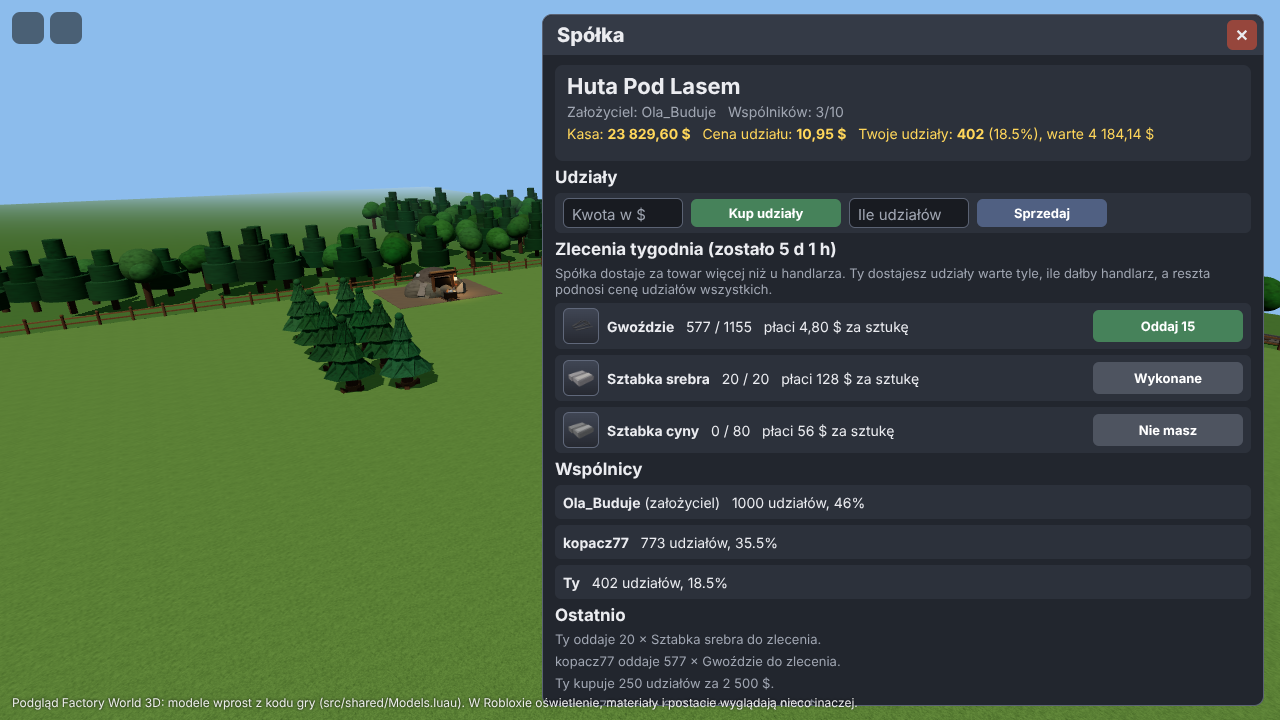
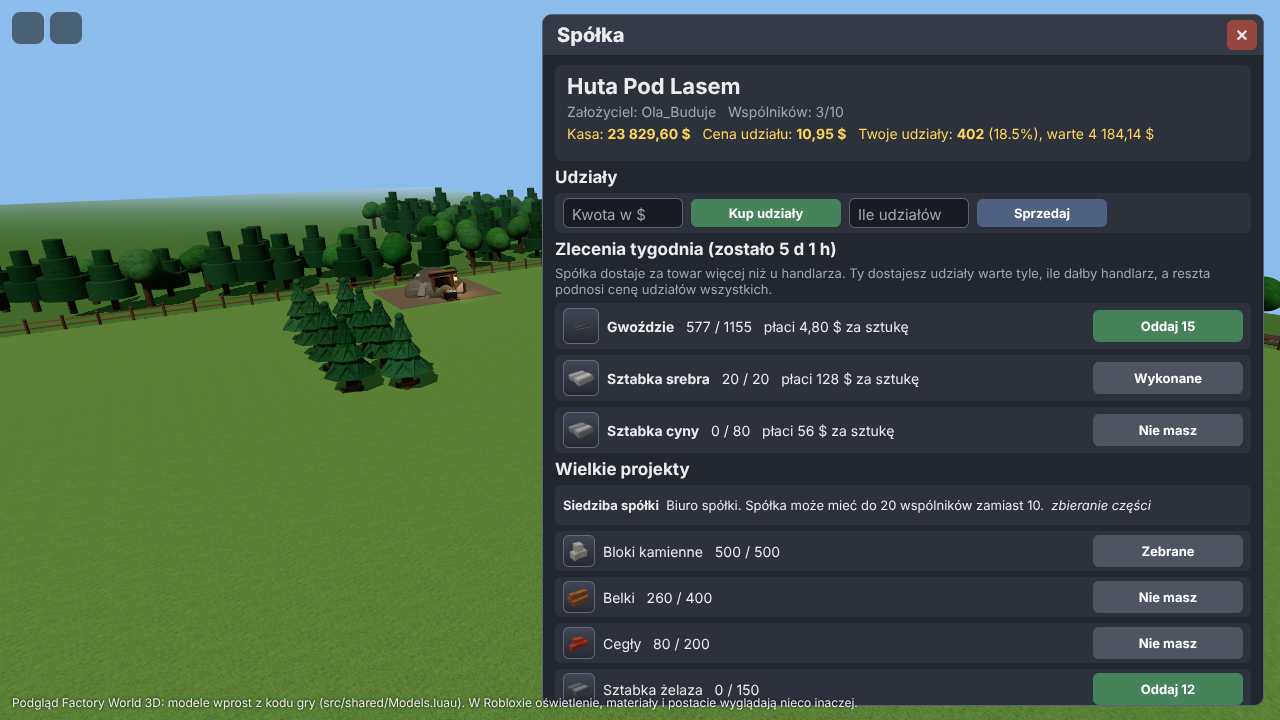
Companies: big projects (headquarters, warehouse, company railway) built from members' parts
The cheaper trains between members now come with the company railway, as in the 2D game.

Claude-Session: https://claude.ai/code/session_015q7rLHNJ66CFDjTGWXE1aJ

Changed region(s): [[0.4375, 0.6417, 0.75, 0.9778], [0.8438, 0.7333, 0.9688, 0.9778], [0.7812, 0.6722, 0.8125, 0.7333]]

diff --git a/tools/preview/scene.js b/tools/preview/scene.js
@@ -643,8 +643,14 @@ function views() {
       local o = Companies.Orders("huta", Companies.Week(now))
       c = step(c, { kind = "deliver", member = "2", order = 1, quantity = math.floor(o[1].quantity / 2) })
       c = step(c, { kind = "deliver", member = "3", order = 2, quantity = o[2].quantity })
+      c = step(c, { kind = "project", member = "1", project = "hq" })
+      c = step(c, { kind = "contribute", member = "2", item = Items.StoneBlocks, quantity = 500 })
+      c = step(c, { kind = "contribute", member = "3", item = Items.Beams, quantity = 260 })
+      c = step(c, { kind = "contribute", member = "1", item = Items.Bricks, quantity = 80 })
+      local hq = {}
+      for i, part in ipairs(Companies.Project("hq").parts) do hq[i] = { item = part[1], quantity = part[2], delivered = c.project.delivered[part[1]] or 0 } end
       local orders = {}
-      for i, x in ipairs(o) do orders[i] = { item = x.item, quantity = x.quantity, left = Companies.Left(c, i, now), rewardCents = x.rewardCents } end
+      for i, x in ipairs(o) do if i <= Companies.OrderCount(c, now) then orders[i] = { item = x.item, quantity = x.quantity, left = Companies.Left(c, i, now), rewardCents = x.rewardCents } end end
       local members = {}
       for id, m in pairs(c.members) do members[#members + 1] = { name = m.name, shares = m.shares, owner = id == c.owner } end
       table.sort(members, function(a, b) return a.shares > b.shares end)
@@ -652,7 +658,7 @@ function views() {
       for i = #c.log, 1, -1 do log[#log + 1] = c.log[i].text end
       local mine, value = Companies.Stake(c, "3")
       return { name = c.name, cash = Money.Format(c.cashCents), price = Money.Format(Companies.SharePrice(c)), shares = c.shares, mine = mine, value = Money.Format(value),
-        orders = orders, members = members, log = log, weekLeft = (Companies.Week(now) + 1) * Companies.WeekSeconds - now }
+        orders = orders, members = members, log = log, hq = hq, hqText = Companies.Project("hq").text, weekLeft = (Companies.Week(now) + 1) * Companies.WeekSeconds - now }
     end)()`);
     const pct = (n) => Math.round(n / c.shares * 1000) / 10;
     const days = Math.floor(c.weekLeft / 86400), hours = Math.floor((c.weekLeft % 86400) / 3600);
@@ -672,10 +678,12 @@ function views() {
         <b style="font-size:17px">Zlecenia tygodnia (zostało ${days} d ${hours} h)</b>
         <div class="muted" style="font-size:13px">Spółka dostaje za towar więcej niż u handlarza. Ty dostajesz udziały warte tyle, ile dałby handlarz, a reszta podnosi cenę udziałów wszystkich.</div>
         ${c.orders.map(order).join("")}
+        <b style="font-size:17px">Wielkie projekty</b>
+        <div class="row" style="height:40px;font-size:13px"><span><b>Siedziba spółki</b> &nbsp;${c.hqText} &nbsp;<i>zbieranie części</i></span></div>
+        ${c.hq.map((p) => { const left = p.quantity - p.delivered; const give = Math.min(have[p.item] || 0, left);
+          return `<div class="row" style="height:40px">${slot(p.item, "", { size: 32 })}<span style="flex:1;font-size:14px">${name(p.item)} &nbsp; ${p.delivered} / ${p.quantity}</span><span class="btn" style="width:150px;text-align:center;padding:8px 0;${left > 0 && give > 0 ? "" : "background:#4e5460"}">${left <= 0 ? "Zebrane" : give > 0 ? "Oddaj " + give : "Nie masz"}</span></div>`; }).join("")}
         <b style="font-size:17px">Wspólnicy</b>
         ${c.members.map((m) => `<div class="row" style="height:34px;font-size:14px"><span><b>${m.name}</b>${m.owner ? " (założyciel)" : ""} &nbsp; ${m.shares} udziałów, ${pct(m.shares)}%</span></div>`).join("")}
-        <b style="font-size:17px">Ostatnio</b>
-        ${c.log.slice(0, 4).map((t) => `<div class="muted" style="font-size:13px">${t}</div>`).join("")}
       </div></div>` };
   }
   // The windows' item pictures: every item's parts, drawn by index.html.

diff --git a/README.md b/README.md
@@ -29,7 +29,7 @@ Zrzuty pochodzą z podglądu w przeglądarce (`tools/preview/`), który rysuje d
 | 2. Logistyka | Działka 232 × 232 study z siatką budowania na całości (56 × 56 pól po 4 study; wszystko na działce stoi na jej polach), tryb budowania (stawianie, obracanie, rozbiórka, linie siatki widoczne tylko przy budowaniu), taśmociągi (2 pasy, zakręty, dołączanie z boku, przeciąganie skręca taśmę), podajniki, drewniane skrzynie (8 miejsc po 100 szt.), piec na siatce karmiony podajnikami, drzewa jak w 2D (ścięte znika, 30% na sadzonkę, sadzonka rośnie 10 min), nowe przepisy na stole (taśmociąg ×4, podajnik, skrzynia), gęsty las między działkami i wokół placu (tylko ozdoba, nie da się go ściąć ani w nim budować; ścieżki do bram wolne) | gotowe |
 | 3. Przetwórstwo | Maszyny na siatce (2 × 2 pola, odlewnia 3 × 3) z przepisami i czasami z gry 2D: tartak (deski, belki, pellet), warsztat kamieniarski (bloki), kruszarka (piasek, kruszywo rud: 3 z 2 rud, w piecu topi się szybciej), odlewnia na węgiel, drewno albo pellet (brąz, stal, cegły); maszyna robi wsad za wsadem także pod nieobecność gracza, podajniki ją karmią i opróżniają. Badania (jedno naraz, koszt od razu, czas jak w 2D): Gospodarka leśna, Kamieniarstwo, Kruszenie, Metalurgia odblokowują maszyny na stole i u handlarza. Od etapu 5 kruszarka potrzebuje prądu | gotowe |
 | 4. Handel | Rynek graczy na wszystkich serwerach (**M**): oferty sprzedaży i zamówienia jak w 2D (towar albo pieniądze czekają w ofercie, inni biorą część albo całość, zarobek przychodzi sam także pod nieobecność; do 20 ofert każdego rodzaju, do 10 000 szt. i 1 000 000 $ za sztukę, rzeczy niezbadane można tylko sprzedawać). Wydarzenia rynkowe u handlarza co 6 godzin (Boom na stal, Boom budowlany, Sroga zima, Gorączka miedzi, Moda na brąz, Gorączka złota, Zalew kamienia, Wyprzedaż maszyn), takie same na każdym serwerze, oraz codzienne wahania cen skupu do 10%; handlarz zawsze płaci najwyżej 90% swojej ceny sprzedaży | gotowe |
-| 5. Świat | **Prąd (gotowe):** generator parowy 2 × 2 (100 kW, węgiel 200 s, drewno 50 s, pellet 40 s przy pełnej mocy, do 50 sztuk; paliwo wkłada się w jego oknie albo podajnikiem), słupy energetyczne (zasilają pola 5 × 5 wokół siebie, łączą się kablem ze słupami do 7 pól dalej w jedną sieć), kruszarka pobiera 40 kW; przy za małej mocy wszystkie maszyny sieci pracują wolniej, bez prądu stoją i pamiętają postęp wsadu. Generator (stół: 10 kamieni, 8 sztabek żelaza, 4 sztabki miedzi) i słupy (×2: 2 drewna, 1 sztabka miedzi). Liczone na żądanie także pod nieobecność gracza. **Pociągi (gotowe):** każda działka ma stację kolejową (3 × 3 pola przy wschodnim płocie, nie da się jej rozebrać) z peronem i torem za płotem, który z obu stron znika w tunelu. Towar ładuje się na stację ręcznie albo podajnikami (do 10 000 szt. jednego towaru), podajniki też ją rozładowują. Wysyłka do innego gracza (szukanie po nazwie, na dowolnym serwerze): opłata 1 $ + 1 ¢ za sztukę na 100 km, czas 5 s na 100 km (najmniej 10 s), jak w 2D; towar czeka na stacji odbiorcy, także gdy go nie ma w grze. Trasy (do 5): pociąg co 1, 5, 15 albo 60 minut z wybranymi towarami albo wszystkim (do 2000 szt.), póki właściciel jest w grze. Pociąg widać, jak przyjeżdża z tunelu, staje przy peronie i odjeżdża. **Stół warsztatowy** jako przedmiot (u handlarza albo z 20 drewna i 5 gwoździ) do postawienia na działce. **Działki z biomami (gotowe, L):** poza pierwszą działką (Łąka) można kupić po jednej działce Las (60 drzew, kopalnia z dużą ilością węgla), Pustynia (bez drzew; piasek, miedź, cyna, czasem złoto), Góry (8 drzew; żelazo, srebro, węgiel) i Tundra (16 ośnieżonych świerków; cyna, srebro, złoto). Biom wybiera się przy zakupie, a działki kosztują 50 000 $, 500 000 $, 5 000 000 $ i każda następna 1 000 000 000 $. Na serwerze gracz ma jedno miejsce na działkę: w oknie *Moje działki* wybiera, którą tam pokazać, a gra buduje ją w tym samym miejscu z jej ziemią, kopalnią, siatką, piecami i maszynami. Działki, których nie widać, liczą się dalej i po powrocie wszystko jest nadrobione. **Pociągi między własnymi działkami (gotowe):** każda działka ma swoją stację z torem. W oknie stacji na liście „Komu” są najpierw twoje inne działki: pociąg jedzie 20 s i kosztuje tylko 1 $, a towar trafia na stację tamtej działki, także gdy jej nie widać. Trasy działają tak samo (np. ruda z Gór co 5 minut na Łąkę) i ruszają ze stacji działki, na której je dodano; działka, której nie widać, jest przed odjazdem przeliczona do teraz. Pociągi od innych graczy przyjeżdżają na stację Łąki. Odległości pociągów nadal liczą się w wymyślonym świecie 2400 × 1200 km. **Spółki (gotowe, K):** gracze z dowolnych serwerów zakładają spółkę (10 000 $, które trafiają do jej kasy; założyciel dostaje 1000 udziałów) albo dołączają do istniejącej (do 10 wspólników, nazwa unikalna i sprawdzona filtrem Robloxa). Udziały kupuje się po cenie udziału (kasa ÷ udziały, najmniej 1 $) i sprzedaje spółce za 95% tej ceny. Co tydzień spółka ma 3 zlecenia na towar (zawsze takie same dla danej spółki i tygodnia); towar z ekwipunku płaci 160% ceny handlarza do kasy, a oddający dostaje udziały warte tyle, ile dałby handlarz, więc reszta podnosi cenę udziałów wszystkich. Założyciel raz dziennie wypłaca dywidendę (20% kasy według udziałów), może usuwać wspólników (ich udziały są odkupione) i zamyka spółkę, odchodząc jako ostatni. Dywidendy przychodzą same, także po powrocie do gry. Pociągi do wspólników są na liście „Komu” od razu i płacą 70% opłaty za odległość. **Lepsze modele (pierwsza tura):** nowa kruszarka (stalowa obudowa na nogach, koła zamachowe, walce w leju, taśma wysypująca kruszywo, drabinka), nowy warsztat kamieniarski (piła tarczowa na wysięgniku nad stołem z płytą, zbiornik wody, paleta bloków) i nowy generator (kocioł z kopułą, manometrem i zaworem, maszyna parowa z kołem zamachowym napędzającym prądnicę), a tartak i odlewnia mają więcej szczegółów. **Druga tura:** nowy parowóz (zielony kocioł z mosiężnymi obręczami i kopułami, duże koła napędowe, zderzaki i zgarniacz, kabina z oknami, tender z węglem) i wagony z deskami i kłonicami; stacja z kominem, skrzynkami kwiatów, ławką i tablicą; skrzynia z okuciami i uchwytami; podajnik z siłownikiem i lampką; wszystko nadal z części w `Models.luau`, bez wgrywania assetów | w toku |
+| 5. Świat | **Prąd (gotowe):** generator parowy 2 × 2 (100 kW, węgiel 200 s, drewno 50 s, pellet 40 s przy pełnej mocy, do 50 sztuk; paliwo wkłada się w jego oknie albo podajnikiem), słupy energetyczne (zasilają pola 5 × 5 wokół siebie, łączą się kablem ze słupami do 7 pól dalej w jedną sieć), kruszarka pobiera 40 kW; przy za małej mocy wszystkie maszyny sieci pracują wolniej, bez prądu stoją i pamiętają postęp wsadu. Generator (stół: 10 kamieni, 8 sztabek żelaza, 4 sztabki miedzi) i słupy (×2: 2 drewna, 1 sztabka miedzi). Liczone na żądanie także pod nieobecność gracza. **Pociągi (gotowe):** każda działka ma stację kolejową (3 × 3 pola przy wschodnim płocie, nie da się jej rozebrać) z peronem i torem za płotem, który z obu stron znika w tunelu. Towar ładuje się na stację ręcznie albo podajnikami (do 10 000 szt. jednego towaru), podajniki też ją rozładowują. Wysyłka do innego gracza (szukanie po nazwie, na dowolnym serwerze): opłata 1 $ + 1 ¢ za sztukę na 100 km, czas 5 s na 100 km (najmniej 10 s), jak w 2D; towar czeka na stacji odbiorcy, także gdy go nie ma w grze. Trasy (do 5): pociąg co 1, 5, 15 albo 60 minut z wybranymi towarami albo wszystkim (do 2000 szt.), póki właściciel jest w grze. Pociąg widać, jak przyjeżdża z tunelu, staje przy peronie i odjeżdża. **Stół warsztatowy** jako przedmiot (u handlarza albo z 20 drewna i 5 gwoździ) do postawienia na działce. **Działki z biomami (gotowe, L):** poza pierwszą działką (Łąka) można kupić po jednej działce Las (60 drzew, kopalnia z dużą ilością węgla), Pustynia (bez drzew; piasek, miedź, cyna, czasem złoto), Góry (8 drzew; żelazo, srebro, węgiel) i Tundra (16 ośnieżonych świerków; cyna, srebro, złoto). Biom wybiera się przy zakupie, a działki kosztują 50 000 $, 500 000 $, 5 000 000 $ i każda następna 1 000 000 000 $. Na serwerze gracz ma jedno miejsce na działkę: w oknie *Moje działki* wybiera, którą tam pokazać, a gra buduje ją w tym samym miejscu z jej ziemią, kopalnią, siatką, piecami i maszynami. Działki, których nie widać, liczą się dalej i po powrocie wszystko jest nadrobione. **Pociągi między własnymi działkami (gotowe):** każda działka ma swoją stację z torem. W oknie stacji na liście „Komu” są najpierw twoje inne działki: pociąg jedzie 20 s i kosztuje tylko 1 $, a towar trafia na stację tamtej działki, także gdy jej nie widać. Trasy działają tak samo (np. ruda z Gór co 5 minut na Łąkę) i ruszają ze stacji działki, na której je dodano; działka, której nie widać, jest przed odjazdem przeliczona do teraz. Pociągi od innych graczy przyjeżdżają na stację Łąki. Odległości pociągów nadal liczą się w wymyślonym świecie 2400 × 1200 km. **Spółki (gotowe, K):** gracze z dowolnych serwerów zakładają spółkę (10 000 $, które trafiają do jej kasy; założyciel dostaje 1000 udziałów) albo dołączają do istniejącej (do 10 wspólników, nazwa unikalna i sprawdzona filtrem Robloxa). Udziały kupuje się po cenie udziału (kasa ÷ udziały, najmniej 1 $) i sprzedaje spółce za 95% tej ceny. Co tydzień spółka ma 3 zlecenia na towar (zawsze takie same dla danej spółki i tygodnia); towar z ekwipunku płaci 160% ceny handlarza do kasy, a oddający dostaje udziały warte tyle, ile dałby handlarz, więc reszta podnosi cenę udziałów wszystkich. Założyciel raz dziennie wypłaca dywidendę (20% kasy według udziałów), może usuwać wspólników (ich udziały są odkupione) i zamyka spółkę, odchodząc jako ostatni. Dywidendy przychodzą same, także po powrocie do gry. Odejście i usuwanie wspólnika trzeba potwierdzić drugim kliknięciem. **Wielkie projekty** (jak w 2D): założyciel zaczyna projekt, wspólnicy znoszą części z ekwipunku, a po zebraniu wszystkich spółka buduje go przez 24 albo 48 h; *Siedziba spółki* (500 bloków kamiennych, 400 belek, 200 cegieł, 150 sztabek żelaza) pozwala mieć 20 wspólników, *Magazyn spółki* (po siedzibie) daje 5 zleceń tygodniowo zamiast 3, a *Kolej spółki* (po siedzibie) obniża o 30% opłatę za odległość pociągów między wspólnikami. Wspólnicy są na liście „Komu” w oknie stacji od razu. **Lepsze modele (pierwsza tura):** nowa kruszarka (stalowa obudowa na nogach, koła zamachowe, walce w leju, taśma wysypująca kruszywo, drabinka), nowy warsztat kamieniarski (piła tarczowa na wysięgniku nad stołem z płytą, zbiornik wody, paleta bloków) i nowy generator (kocioł z kopułą, manometrem i zaworem, maszyna parowa z kołem zamachowym napędzającym prądnicę), a tartak i odlewnia mają więcej szczegółów. **Druga tura:** nowy parowóz (zielony kocioł z mosiężnymi obręczami i kopułami, duże koła napędowe, zderzaki i zgarniacz, kabina z oknami, tender z węglem) i wagony z deskami i kłonicami; stacja z kominem, skrzynkami kwiatów, ławką i tablicą; skrzynia z okuciami i uchwytami; podajnik z siłownikiem i lampką; wszystko nadal z części w `Models.luau`, bez wgrywania assetów | w toku |
 
 ## Uruchomienie w Roblox Studio
 
